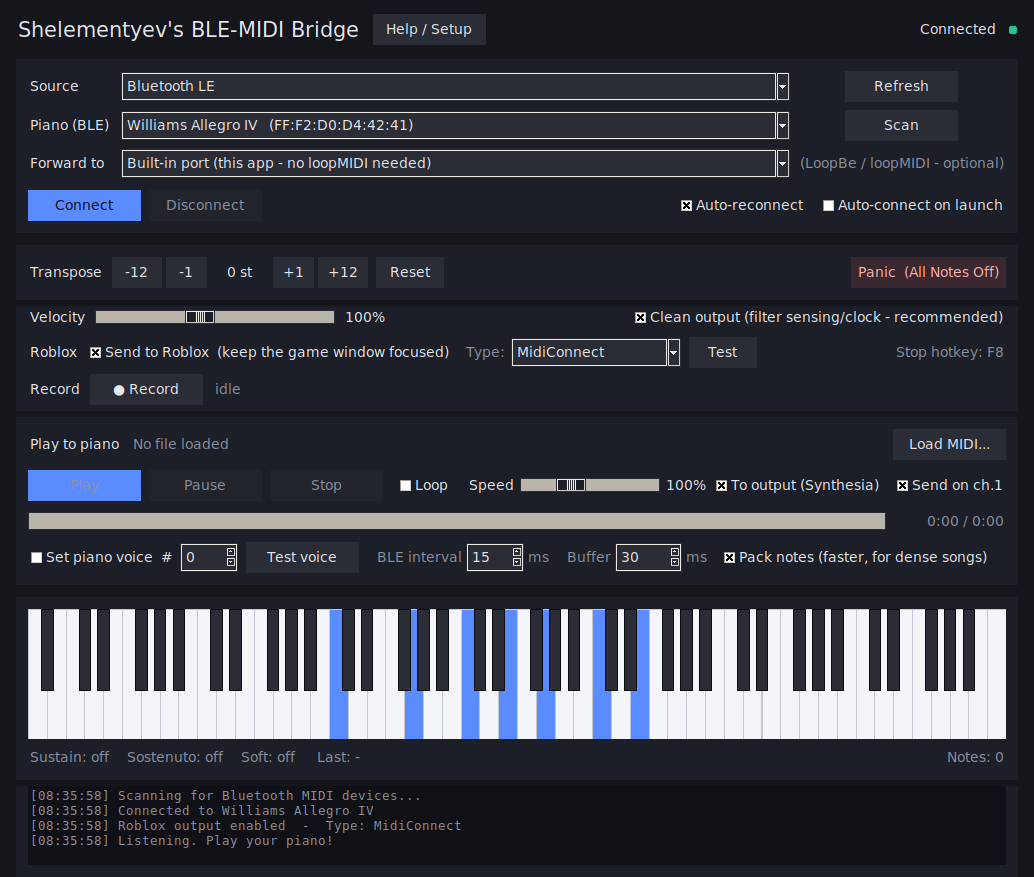
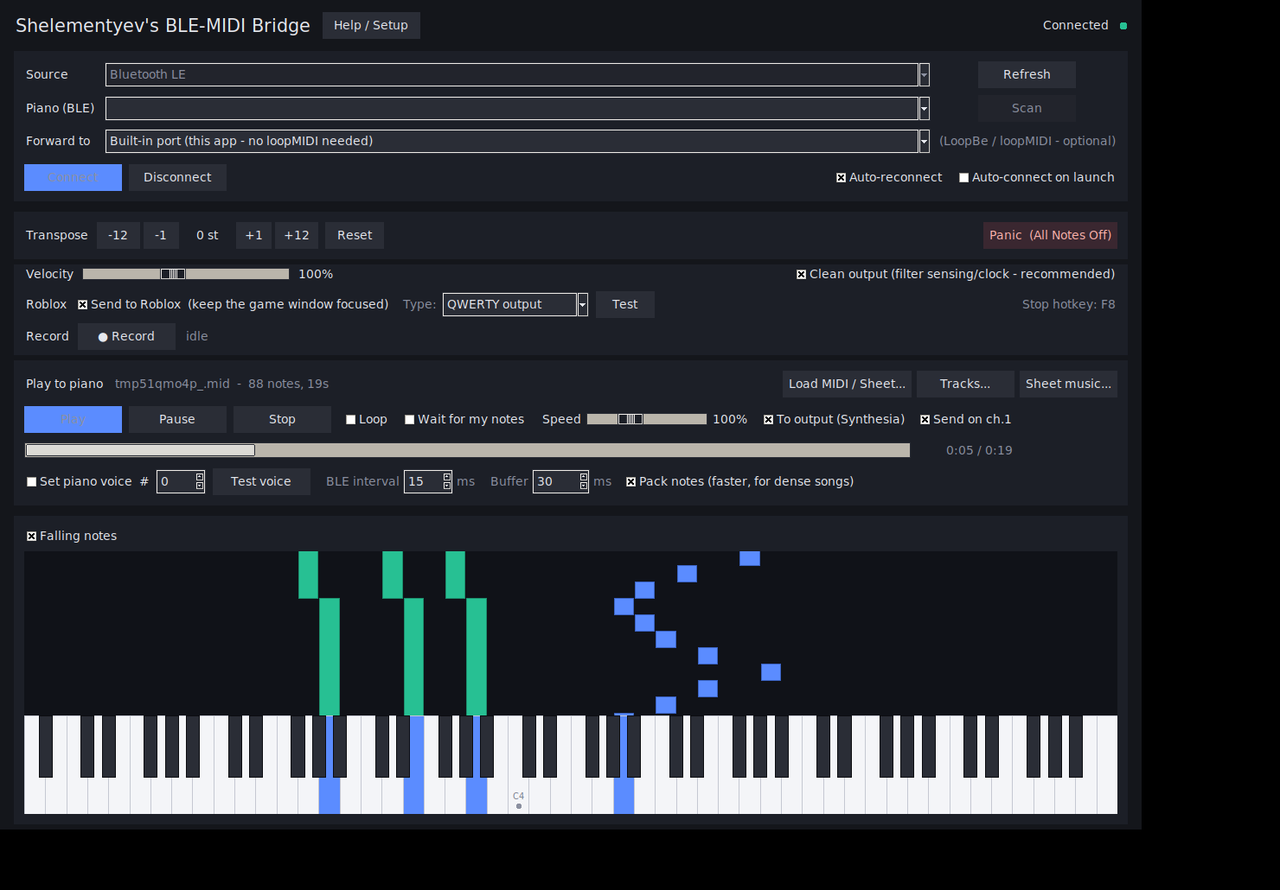
Add files via upload

diff --git a/README.md b/README.md
@@ -15,7 +15,9 @@ Shelementyev's BLE-MIDI Bridge connects your digital piano to your PC and sends 
 ---
 
 ## Features
-- **Practice tools:** a Synthesia-style **falling-notes** view, a **track / hand filter** (mute the left or right hand of a piano MIDI), and a **wait-for-my-notes** mode that pauses at every chord until you play it on your piano, and **sheet music both ways** - transcribe any loaded MIDI to printable notation (key, triplets, dynamics, pedal), or open a MusicXML score and play it as MIDI.
+- **Practice tools** — a Synthesia-style **falling-notes** view (color-coded per hand), a **wait-for-my-notes** mode that pauses at every chord until you play it on your piano (waiting keys light amber and are labeled with the exact note names), a **track / hand filter** for one-hand practice, and a **middle-C marker** on the keyboard.
+- **Sheet music out** — the **Sheet music...** button transcribes any loaded file into real notation: a `.musicxml` (opens in the free MuseScore) plus a printable browser preview. It detects keys (including mid-piece changes), triplets and sextuplets, dynamics, and phrase slurs, and writes proper stems, beams, ties, pedal lines, tempo and rehearsal marks, and glissando lines, with held notes kept as a second voice on a grand staff.
+- **Sheet music in** — **Load MIDI / Sheet...** also opens MusicXML scores (`.musicxml` / `.mxl`). Two-staff piano scores split into hands, the score's full tempo map is honored, and you can save a `.mid` copy — any sheet becomes playable on your piano or in Roblox.
 
 - **Bluetooth LE pianos** — connect a BLE digital piano directly, no virtual cables or workarounds.
 - **USB pianos** — a rock-solid wired option that handles even very fast pieces flawlessly.
@@ -27,6 +29,20 @@ Shelementyev's BLE-MIDI Bridge connects your digital piano to your PC and sends 
 - **Live 88-key visualizer** and one-click **recording** to a `.mid` file.
 - **F8 panic hotkey** — instantly release a stuck key or pedal without alt-tabbing out of the game.
 - **Test button** — fires a C-major scale into the game so you can confirm your setup before you play.
+
+<p align="center">
+  <img src="practice-wait.png" alt="Wait-for-my-notes practice mode" width="820"><br>
+  <i>Wait-for-my-notes: playback freezes until you play the labeled amber keys.</i>
+</p>
+
+<p align="center">
+  <img src="sheet-example.png" alt="Sheet music exported by the app" width="820"><br>
+  <i>Notation exported by the app from a MIDI file (demo piece).</i>
+</p>
+
+### A note on sheet-music accuracy
+
+The MIDI &harr; sheet conversion is automated engraving, so set your expectations accordingly: treat the output as a **good working draft, not publication-quality typesetting**. Cleanly sequenced MIDIs — the kind piano communities usually share — come out very readable; free-time live recordings quantize roughly. Complex scores are approximated: at most two voices per staff, quintuplet/septuplet runs snap to the nearest supported grid, spelling follows one key per key-signature region, and editorial detail like fingerings or expression text simply isn't present in MIDI data. Importing MusicXML works best with standard two-staff piano scores. For a polished final copy, open the exported `.musicxml` in the free [MuseScore](https://musescore.org) and tidy it there — the notes, rhythms, and structure will already be in place.
 
 ## Requirements
 
